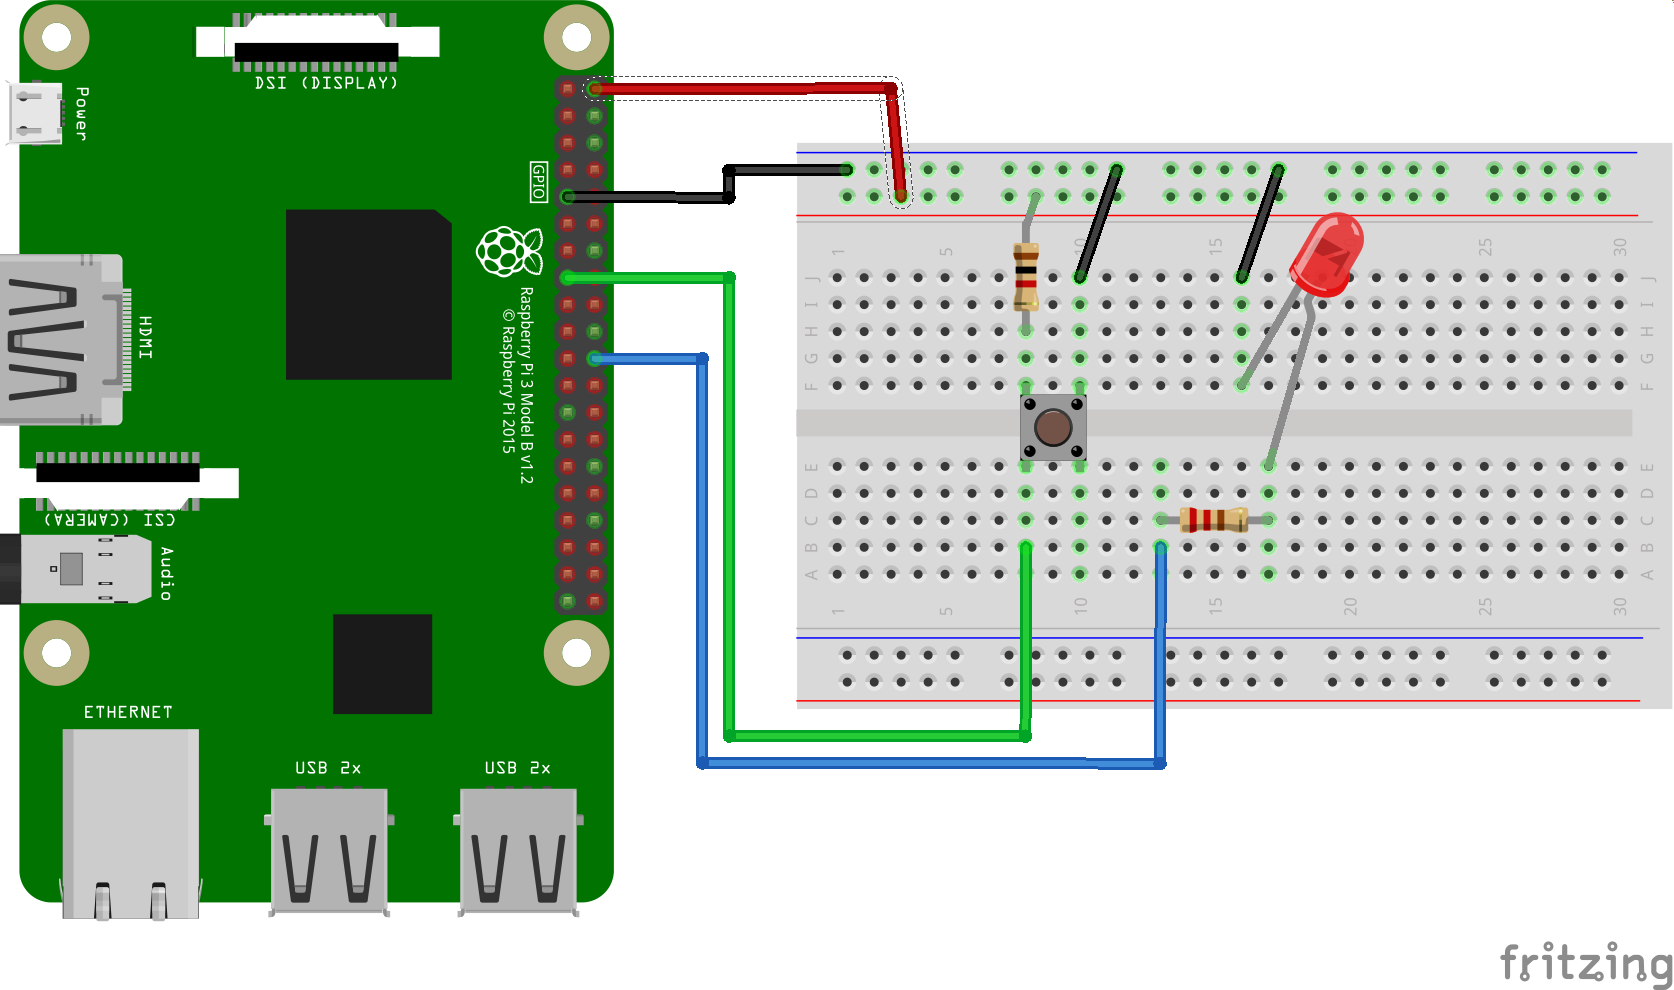
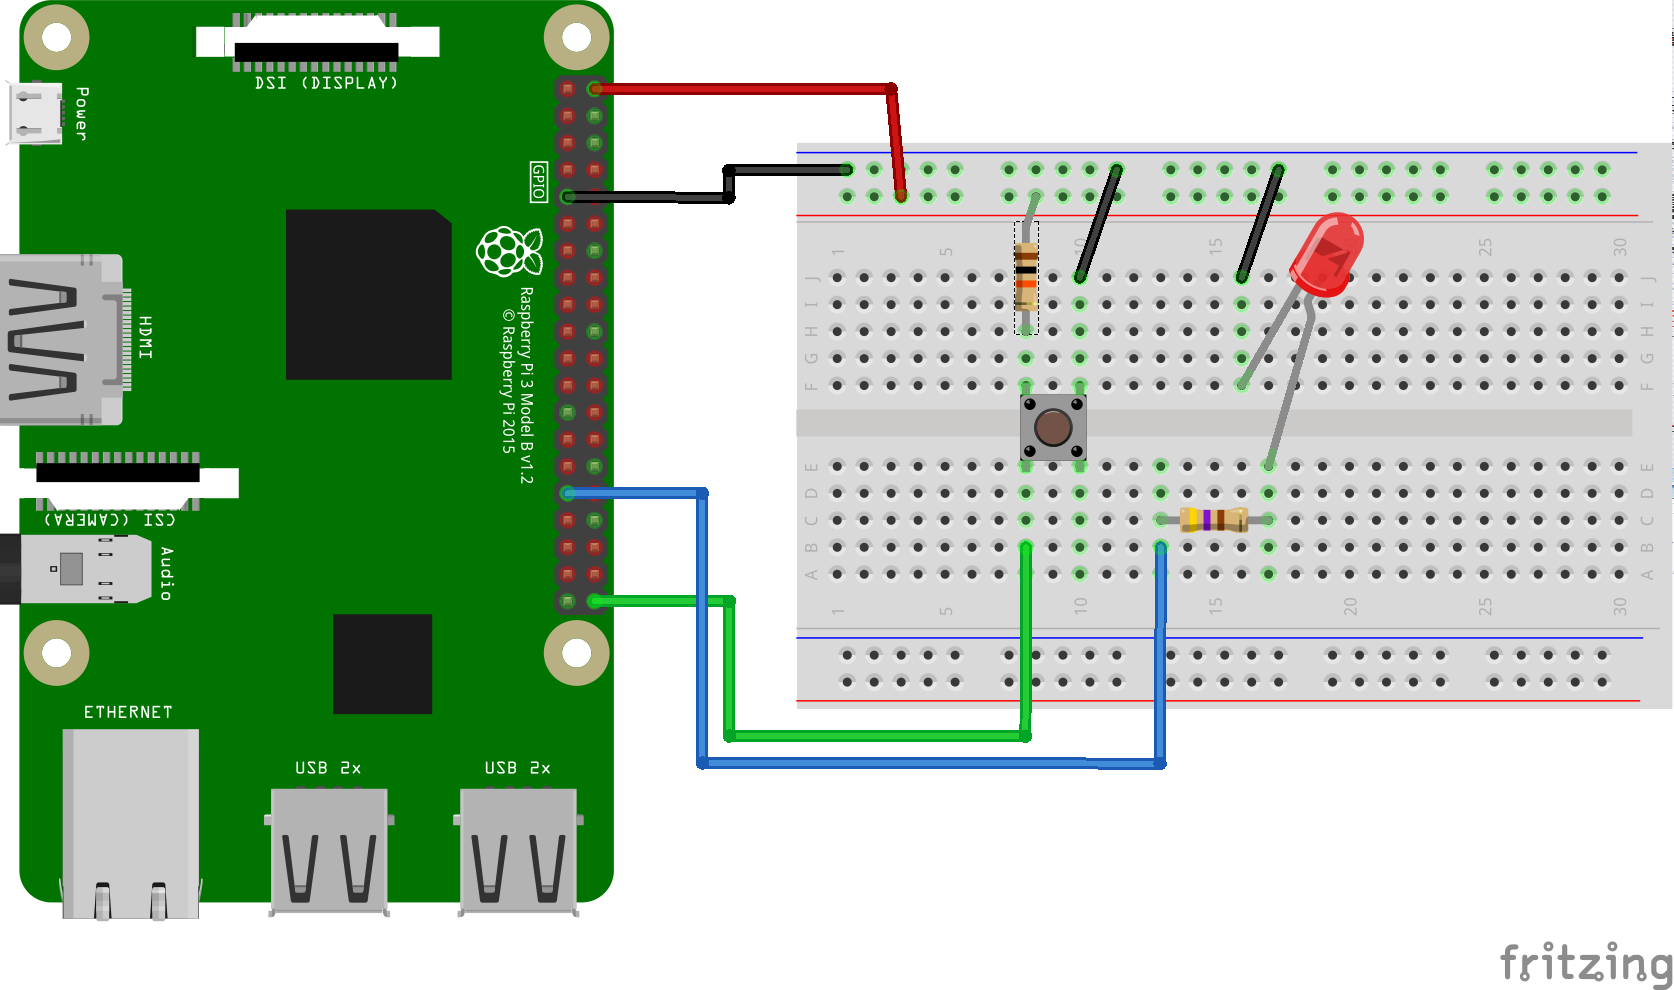
brillo-samples: update schematics and pins
- update RPI3 pins in BoardConfig and schematics to match Rainbow Hat
- fix resistor values in button schematics

Bug: 32952107
Bug: 33015808

diff --git a/app/src/main/java/com/google/samples/button/BoardDefaults.java b/app/src/main/java/com/google/samples/button/BoardDefaults.java
@@ -14,12 +14,12 @@ public class BoardDefaults {
      * that turns on when the GPIO pin is HIGH, and off when low.
      */
     public static String getGPIOForLED() {
-        // TODO: confirm DEVICE and preferred port for RPI3 and NXP
+        // TODO: confirm preferred port for NXP
         switch (Build.DEVICE) {
             case DEVICE_EDISON:
                 return "IO13";
             case DEVICE_RPI3:
-                return "BCM25";
+                return "BCM6";
             case DEVICE_NXP:
                 return "??";
             default:
@@ -31,12 +31,12 @@ public class BoardDefaults {
      * Return the GPIO pin that the Button is connected on.
      */
     public static String getGPIOForButton() {
-        // TODO: confirm DEVICE and preferred port for RPI3 and NXP
+        // TODO: confirm preferred port for NXP
         switch (Build.DEVICE) {
             case DEVICE_EDISON:
                 return "IO12";
             case DEVICE_RPI3:
-                return "BCM22";
+                return "BCM21";
             case DEVICE_NXP:
                 return "??";
             default:
